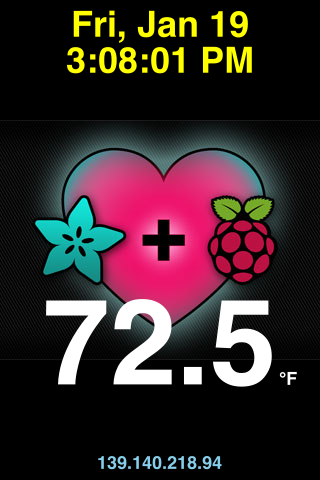
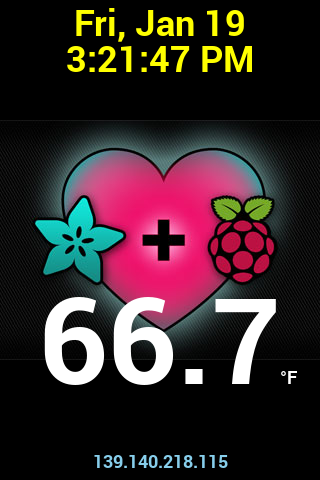
fix display

diff --git a/index.js b/index.js
@@ -6,7 +6,7 @@ const { spawn } = require('child_process');
 var readDataTimeout = 60000; // one minute
 var screenWidth = 320;
 var screenHeight = 480;
-var owfsDevice = "26.103D15000000"
+var owfsDevice = "26.103D15000000";
 var currentTemperature = null;
 var currentHumidity = null;
 var currentIPAddress = null;
@@ -18,11 +18,15 @@ var owfsClient = require('owfs').Client;
 function updateSensors() {
 	var owfsConnection = new owfsClient('localhost');
 	owfsConnection.read("/" + owfsDevice + "/temperature", function(err, result) {
+		if (err) { console.log(err); }
 		currentTemperature = Number(result) * 1.8 + 32;
+		//console.log("Temperature = (" + result + ") " + currentTemperature);
 	});
 	
 	owfsConnection.read("/" + owfsDevice + "/humidity", function(err, result) {
+		if (err) { console.log(err); }
 		currentHumidity = Number(result);
+		//console.log("Humidity = (" + result + ") " + currentHumidity);
 	});
 }
 
@@ -57,8 +61,6 @@ function createDisplayImage(width, height, imageFileName, imageCreatedCallback) 
 	var canvas = new Canvas(width, height),
 	ctx = canvas.getContext('2d');
 
-	console.log(imageFileName);
-
 	// https://github.com/Automattic/node-canvas/tree/v1.x
 	fs.readFile(backgroundImageFileName, function(err, background) {
 		if (err) {
@@ -85,11 +87,11 @@ function createDisplayImage(width, height, imageFileName, imageCreatedCallback) 
 		ctx.textAlign = "center";
 		ctx.fillText(time_s, width/2, 72); //℉
 
-		if (currentTemperature != null) {
+		if (currentTemperature !== null) {
 			ctx.fillStyle = "white";
 			ctx.font = "bold 120px Roboto";
 			ctx.textAlign = "center";
-			ctx.fillText(currentTemperature, width/2, height*0.80); //℉
+			ctx.fillText(currentTemperature.toFixed(1), width/2, height*0.80); //℉
 
 			ctx.fillStyle = "white";
 			ctx.font = "bold 18px Roboto";
@@ -101,7 +103,7 @@ function createDisplayImage(width, height, imageFileName, imageCreatedCallback) 
 			ctx.fillStyle = "skyblue";
 			ctx.font = "bold 18px Roboto";
 			ctx.textAlign = "center";
-			ctx	.fillText(currentIPAddress, width/2, height-12);
+			ctx.fillText(currentIPAddress, width/2, height-12);
 		}
 
 		// https://bl.ocks.org/shancarter/f877b05acb3bafb9d5844f2342344385
@@ -124,7 +126,6 @@ function writeFramebuffer(imageFileName) {
 
 	//console.log("fbi -T 2 -d /dev/fb1 -noverbose -a "+ imageFileName);
 	fbiProc = spawn('fbi',  ["-T", "2", "-d", "/dev/fb1", "-noverbose", "-a", imageFileName]);
-	//fbiProc = spawn('open',  [imageFileName]);
 
 	// fbiProc.on('exit', function (code, signal) {
 	// 	console.log(`child process exited with code ${code} and signal ${signal}`);
